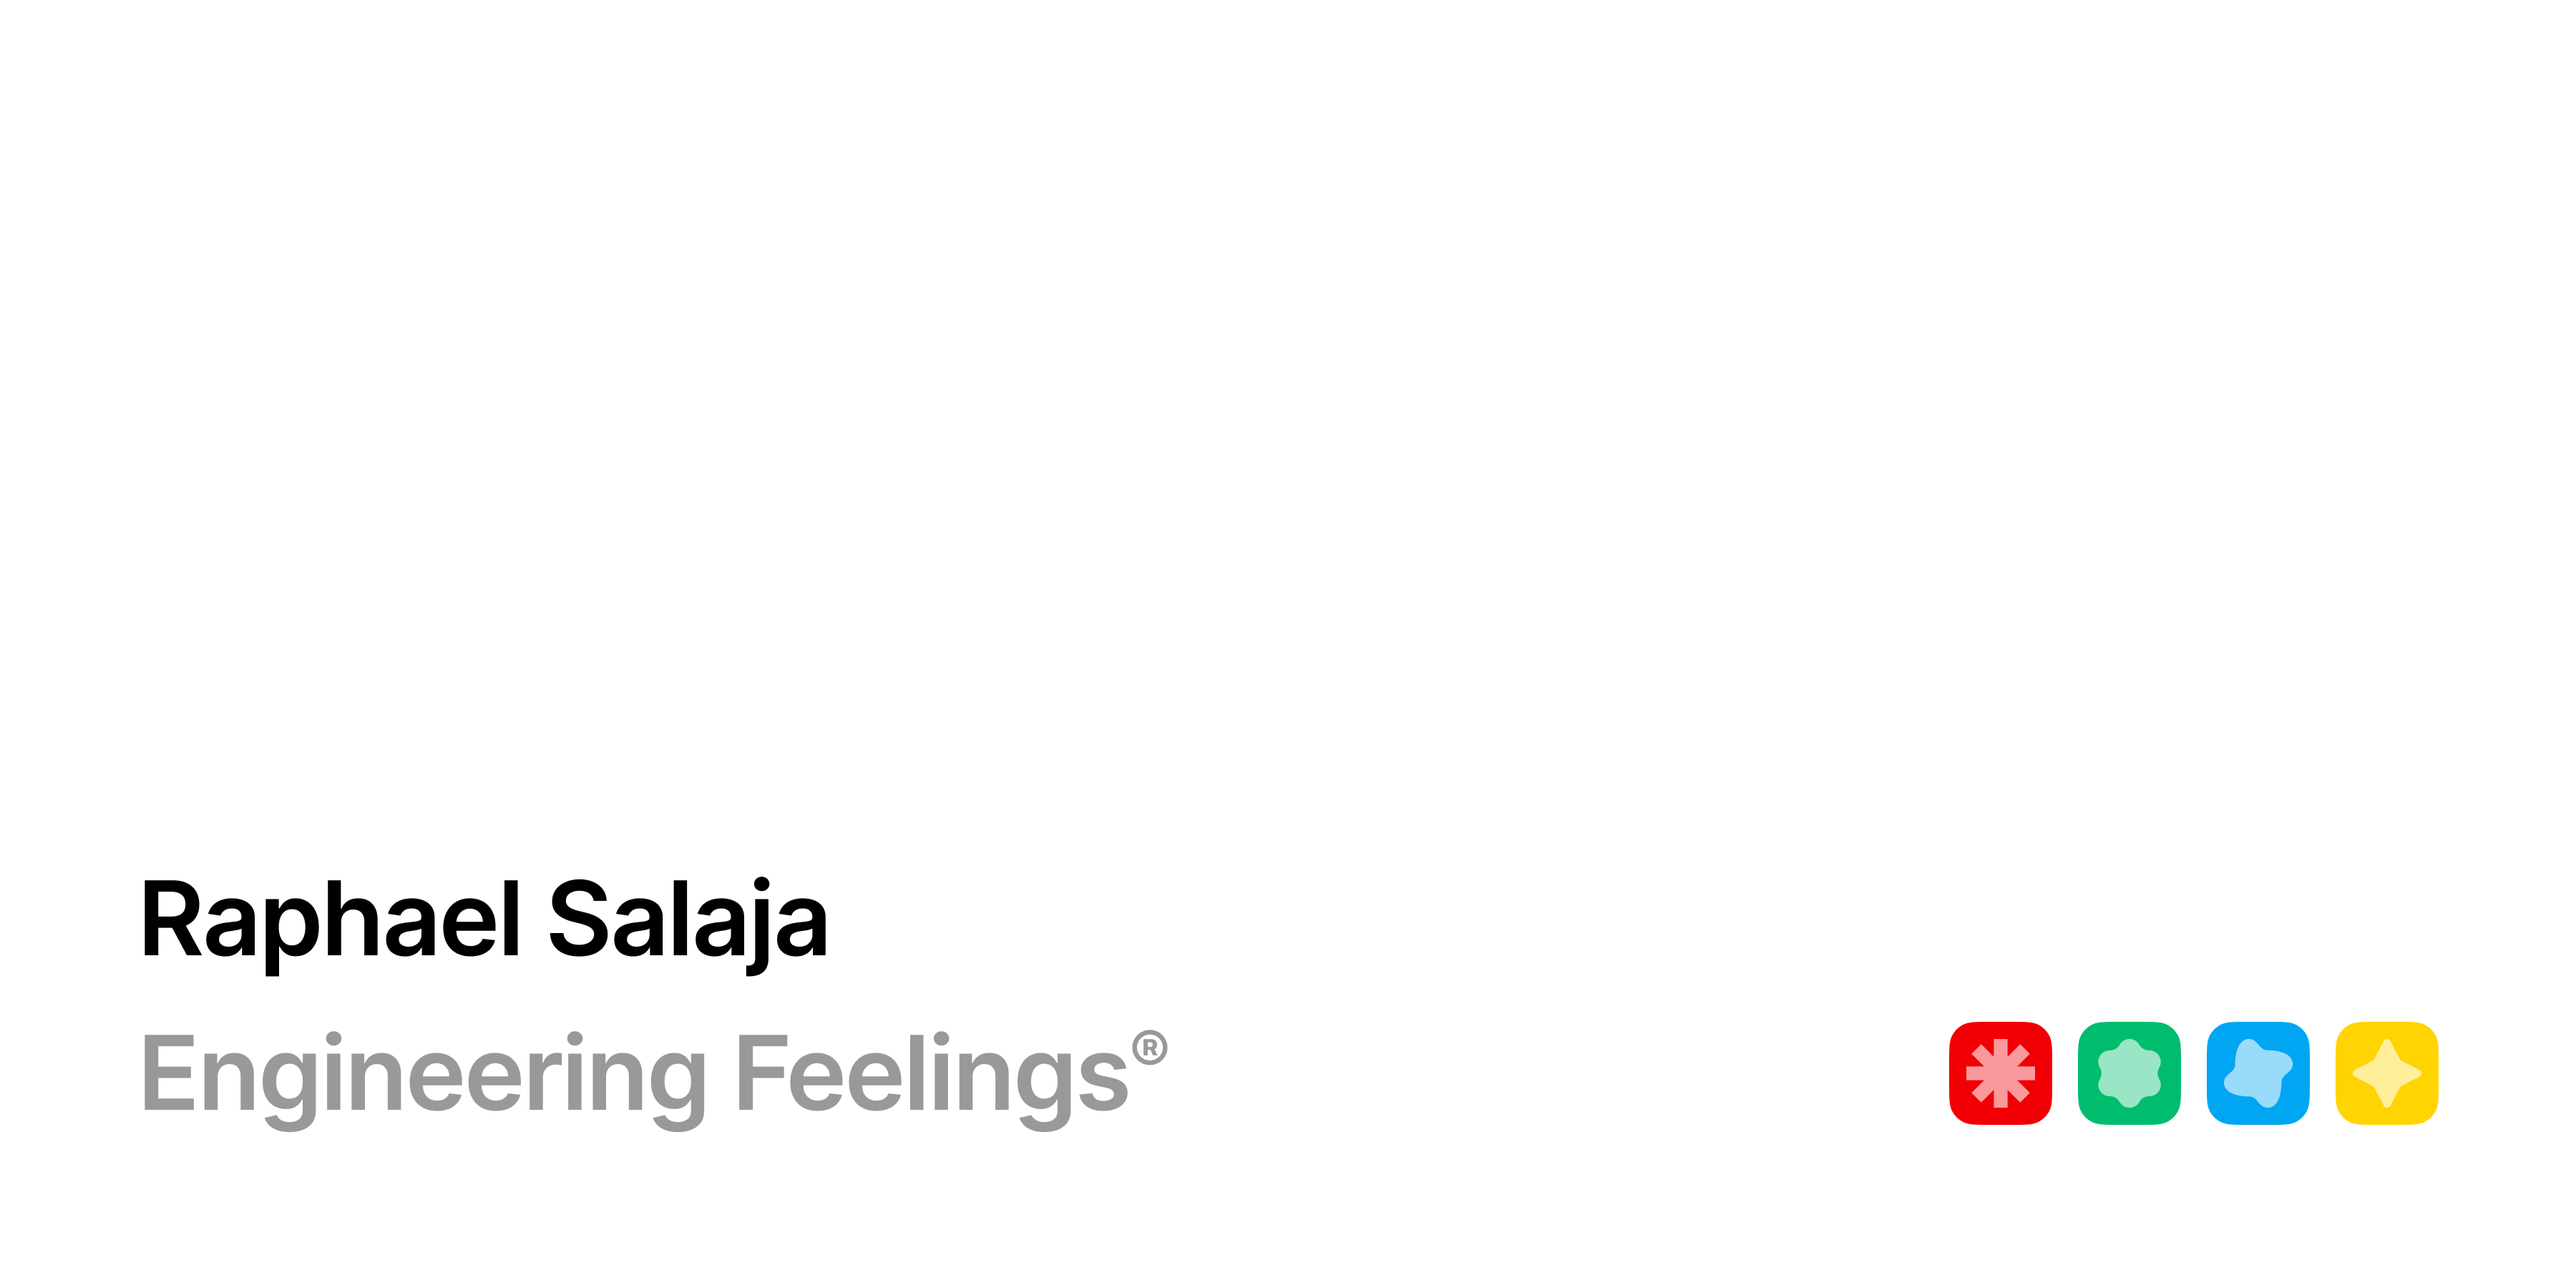
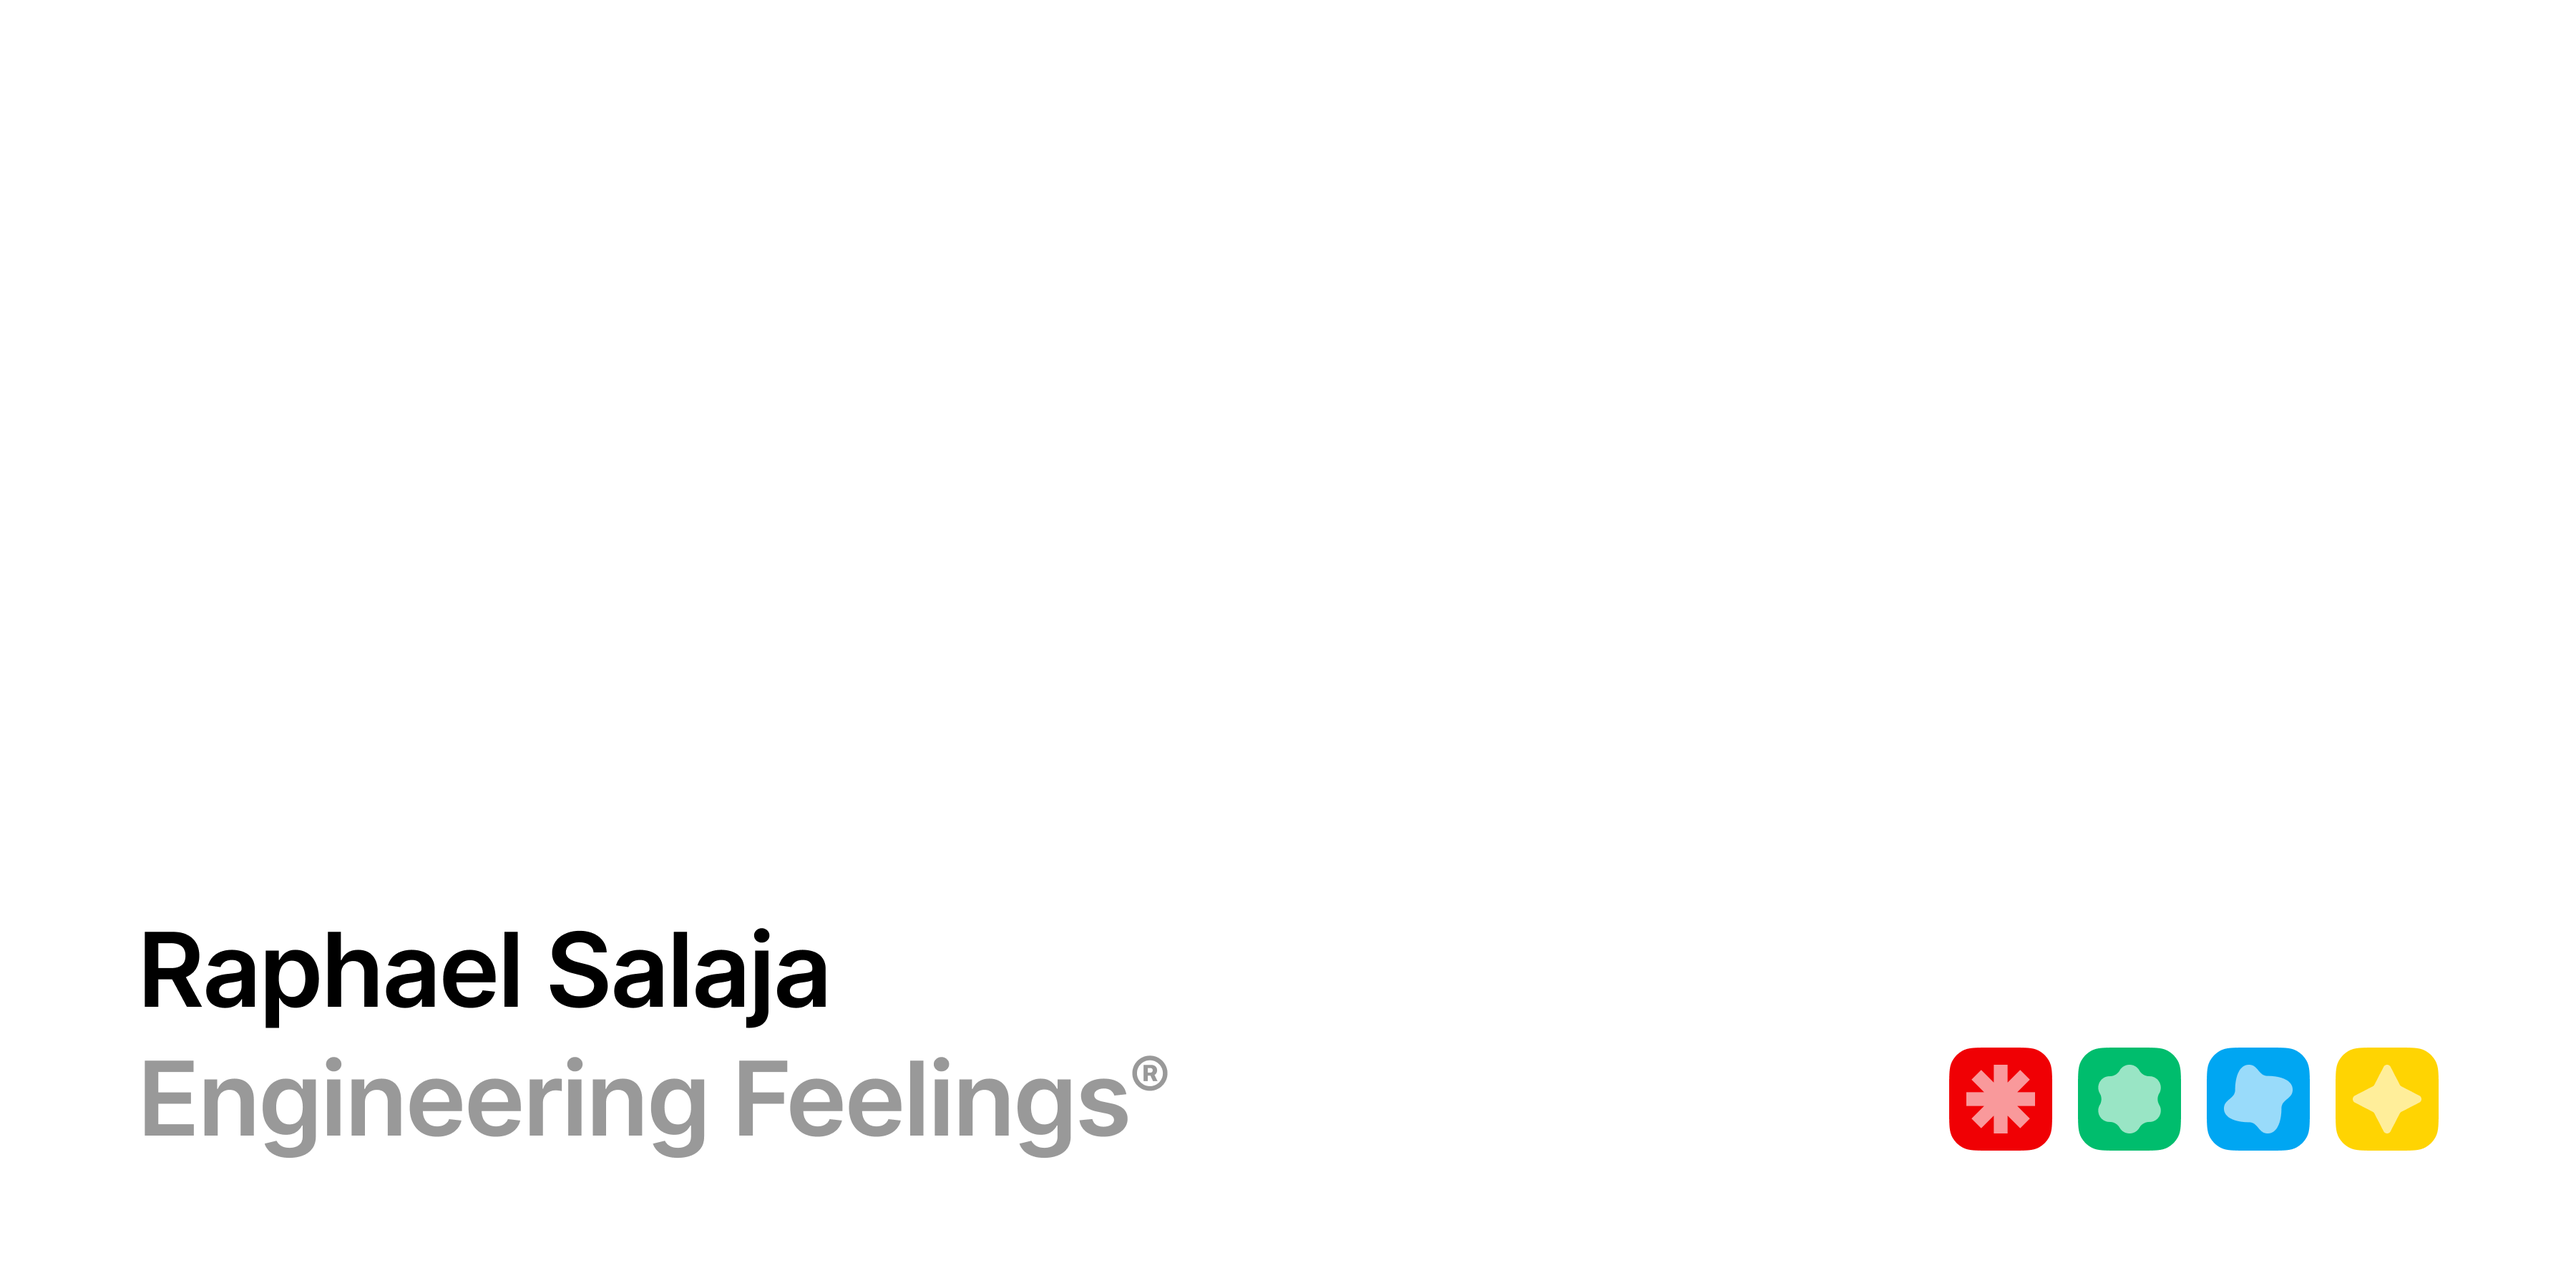
refactor: design choices

Changed region(s): [[0.0311, 0.6844, 0.4667, 0.9022], [0.7467, 0.7778, 0.9644, 0.9022]]

diff --git a/website/components/screens/layout/footer/base/index.tsx b/website/components/screens/layout/footer/base/index.tsx
@@ -10,9 +10,6 @@ export const Base: React.FC = () => {
         <div className={styles.column}>
           <h1>Pages</h1>
           <Button asChild variant="ghost">
-            <Link href="/">Home</Link>
-          </Button>
-          <Button asChild variant="ghost">
             <Link href="/projects">Projects</Link>
           </Button>
           <Button asChild variant="ghost">
@@ -28,13 +25,16 @@ export const Base: React.FC = () => {
         <div className={styles.column}>
           <h1>Connect</h1>
           <Button asChild variant="ghost">
-            <Link href="https://x.com/raphaelsalaja">Twitter</Link>
+            <Link href="https://x.com/raphaelsalaja">X (Twitter)</Link>
           </Button>
           <Button asChild variant="ghost">
             <Link href="https://www.instagram.com/raphaelsalaja">Instagram</Link>
           </Button>
           <Button asChild variant="ghost">
             <Link href="https://github.com/raphaelsalaja">Github</Link>
+          </Button>
+          <Button asChild variant="ghost">
+            <Link href="https://www.linkedin.com/in/raphaelsalaja">LinkedIn</Link>
           </Button>
           <Button asChild variant="ghost">
             <Link href="mailto:raphaelsalaja@gmail.com">Email</Link>
@@ -58,7 +58,7 @@ export const Base: React.FC = () => {
           </div>
         </div>
 
-        <p className={styles.legal}>© {new Date().getFullYear()} Raphael Salaja</p>
+        <p className={styles.legal}>© {new Date().getFullYear()}</p>
       </div>
     </div>
   );

diff --git a/website/components/screens/layout/footer/base/styles.module.scss b/website/components/screens/layout/footer/base/styles.module.scss
@@ -36,22 +36,26 @@
   .links {
     display: flex;
     align-items: flex-start;
-    gap: 48px;
+    gap: 64px;
+
+    @media (max-width: 768px) {
+      gap: 32px;
+    }
 
     .column {
       display: flex;
       flex-direction: column;
       justify-content: center;
       align-items: flex-start;
-      gap: 12px;
+      gap: 6px;
 
       h1 {
-        font-size: 12px;
+        font-size: 13px;
         font-weight: 600;
       }
 
       a {
-        font-size: 12px;
+        font-size: 13px;
         font-weight: 500;
         color: var(--text-quaternary);
         transition: color 0.2s ease;
@@ -67,13 +71,12 @@
 .shapes {
   display: flex;
   grid: repeat(2, 1fr) / repeat(2, 1fr);
-  gap: 8px;
+  gap: 4px;
 
   @media (max-width: 768px) {
     display: grid;
     grid: repeat(2, 1fr) / repeat(2, 1fr);
     gap: 4px;
-    transform: scale(0.8);
     transform-origin: top right;
   }
 
@@ -83,11 +86,11 @@
     align-items: center;
     position: relative;
     aspect-ratio: 1;
-    width: 24px;
-    height: 24px;
-    border-radius: 6px;
+    width: 20px;
+    height: 20px;
+    border-radius: 5px;
     transition: all 0.2s ease;
-    padding: 2px;
+    padding: 4px;
 
     &[data-color="blue"] {
       background-color: var(--red-a10);

diff --git a/website/components/screens/layout/footer/index.tsx b/website/components/screens/layout/footer/index.tsx
@@ -18,7 +18,7 @@ const clamp = (v: number, min: number, max: number): number => Math.min(Math.max
 
 const easeOutQuad = (t: number): number => 1 - (1 - t) * (1 - t);
 
-const PAGES = [Base, Widgets] as const;
+const PAGES = [Widgets, Base] as const;
 
 function useIsTinyScreen(breakpoint = 480) {
   const [isTiny, setIsTiny] = useState(typeof window !== "undefined" && window.innerWidth <= breakpoint);
@@ -157,7 +157,7 @@ export function Footer() {
               className={idx === selectedIndex ? `${styles.dot} ${styles.dotActive}` : styles.dot}
               onClick={() => embla?.scrollTo(idx)}
               aria-label={`Go to slide ${idx + 1}`}
-              style={{ transform: `scale(${idx === selectedIndex ? 1.2 : 1})` }}
+              style={{ transform: `scale(${idx === selectedIndex ? 1.2 : 0.8})` }}
             />
           ))}
         </div>

diff --git a/website/components/screens/layout/footer/widgets/shell/styles.module.scss b/website/components/screens/layout/footer/widgets/shell/styles.module.scss
@@ -44,14 +44,13 @@
   overflow: hidden;
 
   &.marquee {
-    mask-image:
-      linear-gradient(
-        to right,
-        transparent 0%,
-        black 10%,
-        black 90%,
-        transparent 100%
-      );
+    mask-image: linear-gradient(
+      to right,
+      transparent 0%,
+      black 10%,
+      black 90%,
+      transparent 100%
+    );
   }
 }
 
@@ -69,13 +68,13 @@
   }
 
   &[data-variant="primary"] {
-    font-size: 14px;
+    font-size: 13px;
     font-weight: 600;
     color: var(--white-a12);
   }
 
   &[data-variant="secondary"] {
-    font-size: 14px;
+    font-size: 13px;
     font-weight: 500;
     color: var(--white-a8);
   }

diff --git a/website/components/article/index.tsx b/website/components/article/index.tsx
@@ -1,7 +1,6 @@
 import React from "react";
 import { MDX } from "@/components/mdx";
 import type { Frontmatter } from "@/types/frontmatter";
-import Island from "../island";
 
 interface ArticleProps extends React.ComponentPropsWithoutRef<"article"> {
   post: Frontmatter;
@@ -17,7 +16,6 @@ export const Article = ({ post, ...props }: ArticleProps) => {
         {summary && <p data-mdx-article-summary>{summary}</p>}
         <MDX source={content} />
       </article>
-      <Island />
     </React.Fragment>
   );
 };

diff --git a/website/app/(posts)/experiments/[slug]/page.tsx b/website/app/(posts)/experiments/[slug]/page.tsx
@@ -1,11 +1,8 @@
-import { MDX } from "@/components/mdx";
+import { Article } from "@/components/article";
 import { createPostPage } from "@/lib/create-post-page";
 
-const {
-  generateStaticParams,
-
-  default: Page,
-} = createPostPage("experiments", (post) => <MDX source={post.content} />);
+const { generateStaticParams, default: Page } = createPostPage("experiments", (post) => <Article post={post} />);
 
 export { generateStaticParams };
+
 export default Page;

diff --git a/website/app/(posts)/projects/[slug]/page.tsx b/website/app/(posts)/projects/[slug]/page.tsx
@@ -1,11 +1,8 @@
-import { MDX } from "@/components/mdx";
+import { Article } from "@/components/article";
 import { createPostPage } from "@/lib/create-post-page";
 
-const {
-  generateStaticParams,
-
-  default: Page,
-} = createPostPage("projects", (post) => <MDX source={post.content} />);
+const { generateStaticParams, default: Page } = createPostPage("projects", (post) => <Article post={post} />);
 
 export { generateStaticParams };
+
 export default Page;

diff --git a/website/components/screens/layout/footer/widgets/index.tsx b/website/components/screens/layout/footer/widgets/index.tsx
@@ -28,7 +28,6 @@ export const SpotifyWidget: React.FC = () => {
   const art = track?.album?.images?.[0]?.url ?? "./placeholder.png";
   const primaryText = track?.name ?? "No track currently playing";
   const secondaryText = track?.artists?.[0]?.name ?? "Unknown Artist";
-  console.log("Spotify Widget", { isPlaying, primaryText, secondaryText });
 
   return (
     <Widget

diff --git a/website/components/screens/layout/footer/styles.module.scss b/website/components/screens/layout/footer/styles.module.scss
@@ -3,7 +3,7 @@
   --slide-spacing: 16px;
   --slide-size: 100%;
 
-  margin-top: 64px;
+  margin-top: 32px;
   position: relative;
   width: 100%;
   overflow: visible;
